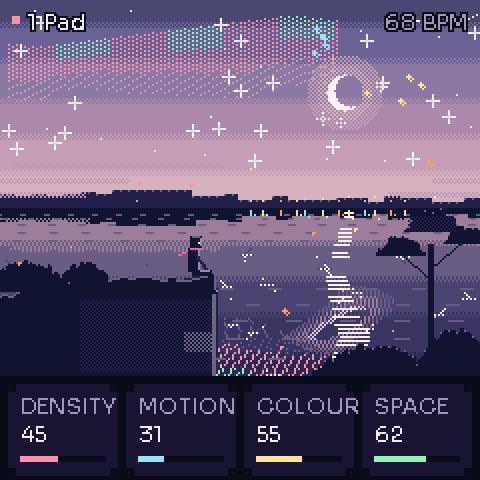
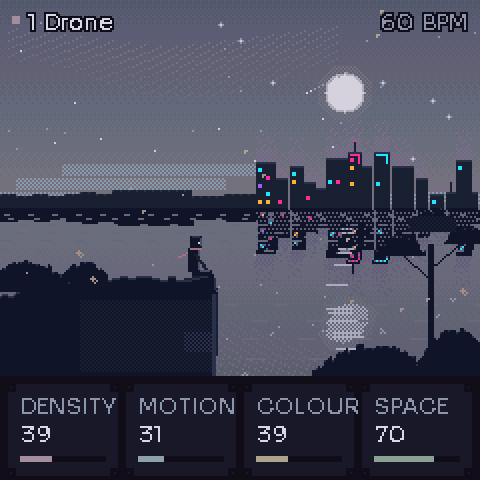
Floaty physics with silent ball collisions; flat muted palette, neon city with glow
Claude-Session: https://claude.ai/code/session_01KPTNcDAdEuj1gFdFWEe3Qh

diff --git a/firmware/src/sk_scene.c b/firmware/src/sk_scene.c
@@ -16,6 +16,7 @@
 #define SC_HZ 104                        /* the horizon */
 #define SC_PX 98                         /* where the figure sits (the hip) */
 #define SC_PY 138                        /* the cliff's top there */
+#define SC_CX0 128                       /* where the city starts */
 #define SC_EDGE 106                      /* the cliff's edge */
 
 static const uint8_t SC_COL[SK_NV] = {C_PINK, C_CYAN, C_YELLOW, C_EMBER, C_GREEN, C_ACC};     /* the voices' colours */
@@ -78,6 +79,7 @@ static void sc_theme(uint32_t biome)
     sc.refl[C_F2] = C_F0;
     sc.refl[C_F3] = C_F0;
     sc.refl[C_MIST] = C_W0;
+    sc.refl[C_G0] = C_G1;
 }
 
 static void sc_update(uint32_t now)
@@ -253,24 +255,70 @@ static void sc_mist(uint32_t now)
 static void sc_shore(void)
 {
     int x;
-    for (x = 0; x < FB_W; x++) {
-        int h = 3 + (int)(sc_hash((uint32_t)(x >> 3) + 0x77u) % 4u) + (x > 118 ? 0 : 3);
+    for (x = 0; x < SC_CX0; x++) {
+        int h = 3 + (int)(sc_hash((uint32_t)(x >> 3) + 0x77u) % 4u) + 3;
         fb_rect(x, SC_HZ - h, 1, h, C_F1);
         if ((x & 3) == 0)
             fb_pset(x, SC_HZ - h, C_F2);
     }
 }
 
-static void sc_lights(uint32_t now)
+/* the city on the far shore: dark towers with neon windows, a few signs, a blinking mast, and a faint glow above it.
+ * Voice 4 brings more windows on; DENSITY adds a few. The only vivid thing on the screen. */
+static void sc_city(uint32_t now)
 {
-    int e = sc_e[3], i;
-    for (i = 0; i < 16; i++) {
-        int x = 124 + i * 7 + (int)(sc_hash((uint32_t)i + 9u) % 4u), on = e > 50 && i * 127 / 16 < sk_s.mac[0] + 30;
-        uint8_t c = (i & 3) == 0 ? C_CYAN : ((i & 1) ? C_YELLOW : C_EMBER);
-        if (on || ((now >> 9) + (uint32_t)i) % 13u == 0u)
-            fb_pset(x, SC_HZ - 4 - (int)(sc_hash((uint32_t)i * 5u) % 3u), on ? c : C_STAR2);
+    int x = SC_CX0, e = sc_e[3], lit = 20 + (e * 30 >> 8) + (sk_s.mac[0] >> 4), b = 0;
+    static int8_t hmap[FB_W];
+    while (x < FB_W - 2) {
+        uint32_t k = sc_hash((uint32_t)b * 7919u + 0x31u);
+        int w = 5 + (int)(k % 7u), h = 7 + (int)((k >> 8) % 19u) + (x > 170 && x < 205 ? 6 : 0), i, wx, wy;
+        if (x + w > FB_W - 1)
+            w = FB_W - 1 - x;
+        for (i = 0; i < w; i++)
+            hmap[x + i] = (int8_t)h;
+        fb_rect(x, SC_HZ - h, w, h, C_F1);
+        fb_hline(x, SC_HZ - h, w, C_F2);
+        for (wy = SC_HZ - h + 3; wy < SC_HZ - 3; wy += 4)
+            for (wx = x + 1; wx < x + w - 2; wx += 4) {
+                uint32_t q = sc_hash((uint32_t)(wx * 131 + wy * 17) + 0x77u);
+                int on = (int)(q % 100u) < lit;
+                if (!on && ((now >> 10) + (q >> 8)) % 97u == 0u)
+                    on = 1;                                   /* a window now and then */
+                if (on)
+                    fb_rect(wx, wy, 2, 2, (uint8_t)(C_N0 + ((q >> 12) & 3u)));
+            }
+        if ((k >> 20) % 3u == 0u && w > 6) {                  /* a neon sign */
+            uint8_t c = (uint8_t)(C_N0 + ((k >> 24) & 3u));
+            int sy = SC_HZ - h + 1;
+            fb_hline(x + 1, sy, w - 2, c);
+            if (h > 14)
+                fb_vline(x + w - 2, sy, 5, c);
+        }
+        if ((k >> 22) % 5u == 0u) {                           /* a mast with a blinking light */
+            fb_vline(x + w / 2, SC_HZ - h - 5, 5, C_F1);
+            if (((now >> 9) + (uint32_t)b) % 4u < 2u)
+                fb_pset(x + w / 2, SC_HZ - h - 6, C_N0);
+        }
+        x += w + (int)((k >> 16) % 2u);
+        b++;
+    }
+    /* the glow: a faint dithered haze over the roofs, thicker over the tall ones, breathing very slowly */
+    {
+        int breathe = 2 + (sc_tri((int)(now >> 6)) >> 6);
+        for (x = SC_CX0; x < FB_W - 1; x++) {
+            int h = hmap[x], g = 6 + (h >> 2) + breathe + (e >> 6), i;
+            for (i = 1; i <= g; i++) {
+                int y = SC_HZ - h - i;
+                if (y < 0)
+                    break;
+                if (((x + y) & 1) == 0 && (i < g / 2 || ((x >> 1) + y) % 3 == 0))
+                    if (fb[y * FB_W + x] >= C_S0 && fb[y * FB_W + x] <= C_S5)
+                        fb_pset(x, y, C_G0);
+            }
+        }
     }
 }
+
 static void sc_arm(int sx, int sy, int tx, int ty, uint8_t c)
 {
     fb_line(sx, sy, tx, ty, c);
@@ -444,7 +492,7 @@ static void sc_reflect(uint32_t now)
             break;
         }
         src = fb + sy * FB_W;
-        dx = ((sc_tri(d * 13 + (int)(now >> 4)) - 128) * (1 + d / 10)) >> 6;
+        dx = ((sc_tri(d * 13 + (int)(now >> 4)) - 128) * (1 + d / 24)) >> 7;
         for (x = 0; x < FB_W; x++) {
             int sx = x + dx;
             uint8_t c;
@@ -452,6 +500,8 @@ static void sc_reflect(uint32_t now)
             c = sc.refl[src[sx] & (FB_PAL - 1)];
             if ((c == C_MOON2 || c == C_STAR2) && ((x + y) & 1))
                 c = C_W2;
+            else if (c >= C_N0 && c <= C_N3 && ((x + y) & 1))        /* the neon lies on the water, half as bright */
+                c = C_G1;
             dst[x] = c;
         }
     }
@@ -481,13 +531,15 @@ static void sc_water(uint32_t now)
     }
     /* the far lights' streaks, ripples from the sub's strikes */
     {
-        int i, e3 = sc_e[3];
+        int e3 = sc_e[3];
         uint32_t age = now - sc.hit[5];
-        int k;
-        for (i = 0; i < 16; i++) {
-            int x = 124 + i * 7 + (int)(sc_hash((uint32_t)i + 9u) % 4u);
-            if (e3 > 50 && i * 127 / 16 < sk_s.mac[0] + 30)
-                fb_vline(x, SC_HZ + 1, 2 + e3 / 60, (i & 3) == 0 ? C_CYAN : ((i & 1) ? C_YELLOW : C_EMBER));
+        int k, x;
+        for (x = SC_CX0; x < FB_W - 1; x += 1) {                     /* the city's light lying on the water */
+            uint32_t q = sc_hash((uint32_t)x * 31u + (now >> 9));
+            int n = 3 + (int)(q % 9u) + (e3 >> 6), j;
+            for (j = 0; j < n; j++)
+                if (((x + j) & 1) == 0)
+                    fb_pset(x, SC_HZ + 2 + j * 2, C_G1);
         }
         for (k = 0; k < 3; k++) {
             int a = (int)age - k * 350, rr, x;
@@ -564,9 +616,9 @@ static void sc_draw(uint32_t now)
     sc_stars(now);
     sc_moon();
     sc_comet(now);
-    sc_shore();
-    sc_lights(now);
     sc_mist(now);
+    sc_shore();
+    sc_city(now);
     sc_reflect(now);
     sc_water(now);
     sc_foreground();

diff --git a/firmware/src/sk_phys.c b/firmware/src/sk_phys.c
@@ -4,8 +4,8 @@
  *
  * The side it touches is the scale degree (so a hexagon is a six-note phrase), the ball is a voice (ball 1 plays voice 1
  * in its register and with its sound), the speed of the hit is the velocity. The shape's SPIN carries the balls round
- * and throws them; GRAVITY pulls them down; BOUNCE is how much of a hit is kept (above 100 % the walls add energy, so
- * the balls never settle). All integer, a fixed step of 1/60 s whatever the frame rate; the walls are the exact
+ * and throws them; GRAVITY pulls them down gently (they drift, they do not fall); BOUNCE is how much of a hit is kept (above 100 % the walls add energy, so
+ * the balls never settle). Balls bounce off each other without a sound. All integer, a fixed step of 1/60 s whatever the frame rate; the walls are the exact
  * sides of the polygon, moving with it. Included by sk_ui.c's unit; drawn on the scene's area. */
 
 #define PH_MAXB 6
@@ -71,7 +71,7 @@ static void ph_init(void)
 static void ph_step(void)
 {
     static uint8_t tr;
-    int g = 14 + ph.grav * 62 / 127;                       /* Q8 pixels per step^2 (0.05 .. 0.3) */
+    int g = 2 + ph.grav * 12 / 127;                        /* Q8 pixels per step^2 (0.008 .. 0.055): the balls drift down */
     int apo = ((PH_R << 8) >> 2) * SK_SIN[256 - 512 / ph.sides] >> 13;
     int w = ph.spin * 75 / 256;                             /* radians a step, Q8 (the angle moves spin * 12 / 65536 turns) */
     int e = 64 + ph.bounce * 72 / 127;                      /* Q7 .. 0.5 .. 1.1 */
@@ -106,13 +106,13 @@ static void ph_step(void)
                     b->vx -= (imp * c) >> 15;
                     b->vy -= (imp * sn) >> 15;
                     b->vx -= b->vx >> 6;                    /* a little grip */
-                    if (vn > 160 && !b->cool && ph.on) {
-                        uint32_t vel = 30u + (uint32_t)(vn > 1400 ? 1400 : vn) * 90u / 1400u;
+                    if (vn > 70 && !b->cool && ph.on) {
+                        uint32_t vel = 30u + (uint32_t)(vn > 900 ? 900 : vn) * 90u / 900u;
                         int deg = (int)s + (int)k * 2 - ph.sides / 2;
                         sk_play(k, sk_note_of(k, deg), vel);
                         b->cool = 8;
                     }
-                    if (vn > 160) {
+                    if (vn > 70) {
                         b->flash = 255;
                         b->side = (int8_t)s;
                         ph.edge[s] = 255;
@@ -132,6 +132,36 @@ static void ph_step(void)
             }
             b->tx[0] = (int16_t)(PH_CX + (b->x >> 8));
             b->ty[0] = (int16_t)(PH_CY + (b->y >> 8));
+        }
+    }
+    /* balls meet balls: an elastic bounce between equal masses, and no sound (only the walls play) */
+    for (k = 0; k + 1 < ph.nb; k++) {
+        uint32_t m;
+        for (m = k + 1; m < ph.nb; m++) {
+            ph_ball_t *a = &ph.b[k], *c = &ph.b[m];
+            int dx = (a->x - c->x) >> 4, dy = (a->y - c->y) >> 4;          /* Q4 pixels */
+            int d2 = dx * dx + dy * dy, lim = (2 * PH_BR) << 4;
+            if (d2 < lim * lim) {
+                int dist = d2 ? sc_isqrt(d2) : 1, nx, ny, vn, ov;
+                if (dist < 1)
+                    dist = 1;
+                nx = (dx << 11) / dist;                                    /* Q11 unit normal, from c to a */
+                ny = (dy << 11) / dist;
+                if (!d2)
+                    nx = 1 << 11, ny = 0;
+                ov = ((lim - dist) << 4) >> 1;                             /* half the overlap each, Q8 */
+                a->x += (nx * ov) >> 11;
+                a->y += (ny * ov) >> 11;
+                c->x -= (nx * ov) >> 11;
+                c->y -= (ny * ov) >> 11;
+                vn = (((a->vx - c->vx) * nx) + ((a->vy - c->vy) * ny)) >> 11;
+                if (vn < 0) {
+                    a->vx -= (vn * nx) >> 11;
+                    a->vy -= (vn * ny) >> 11;
+                    c->vx += (vn * nx) >> 11;
+                    c->vy += (vn * ny) >> 11;
+                }
+            }
         }
     }
 }

diff --git a/firmware/src/sk_fb.c b/firmware/src/sk_fb.c
@@ -31,42 +31,51 @@ enum {
     C_MOON, C_MOON2, C_STAR, C_STAR2,
     C_EMBER, C_PINK, C_CYAN, C_GREEN, C_YELLOW,                /* the pops of colour */
     C_INK, C_INK2, C_PANEL, C_PANEL2, C_BAR, C_ACC,            /* the interface */
-    C_MIST, C_SCARF
+    C_MIST, C_SCARF,
+    C_N0, C_N1, C_N2, C_N3,                                    /* the city's neon: the only vivid colours */
+    C_G0, C_G1                                                 /* the city's glow in the sky and on the water */
 };
 
 #define FB_NTHEME 3
-/* three muted palettes: slate (a blue-grey night, a pale moon), dusk haze (mauve and a dusty rose horizon), and a green-grey
- * mist. They are close in value so that they blend into each other without a jolt. The pops of colour are pastel. */
+/* three muted palettes after a flat blue-grey night: sky and water within a few steps of each other, near-black slate
+ * land, a pale moon. They are close in value so that they blend into each other without a jolt. The pops of colour are
+ * dusty. Only the city on the far shore is vivid: four neon colours and a faint glow of its own. */
 static const uint32_t SK_THEME[FB_NTHEME][40] = {
-    {   /* slate night */
+    {   /* slate night (the reference) */
         0x0E131C,
-        0x4A586C, 0x546278, 0x5E6C82, 0x697789, 0x748294, 0x8290A0,
-        0x7C8A9C, 0x707E92, 0x657388, 0x5A687D, 0x505E73, 0x465469,
-        0x141D2B, 0x1C2838, 0x2D3B4E, 0x4A5A6E,
-        0xE4EAF2, 0xA9B5C4, 0xD2DAE6, 0x9AA7B8,
-        0xC99C7C, 0xC4A0B0, 0x9CBCC8, 0x9CBCAA, 0xD2C8A0,
-        0xDDE3EC, 0x8C98AA, 0x161E2C, 0x273244, 0x9AA8C0, 0xC4A8B4,
-        0x8795A6, 0xC4808C,
+        0x4F6376, 0x546879, 0x586C7C, 0x5C707F, 0x607482, 0x657886,
+        0x637783, 0x5F7380, 0x5B6F7C, 0x576B78, 0x536774, 0x4F6370,
+        0x10192B, 0x182133, 0x28344A, 0x44526A,
+        0xCDCDDA, 0xA4ACBC, 0xC8D2DE, 0x8C9CAC,
+        0x9C8A7C, 0x9C8C98, 0x86A0AC, 0x88A094, 0xA8A48C,
+        0xD0DCE6, 0x8C98AA, 0x161E2C, 0x273244, 0x9AA8C0, 0x9C7482,
+        0x8499A8, 0xA06E7C,
+        0xFF2E9A, 0x22E6FF, 0x9A5CFF, 0xFFB030,
+        0x6A6A88, 0x5A5C7A,
     },
     {   /* dusk haze */
         0x120F1A,
-        0x4C4C64, 0x5A5870, 0x6A6478, 0x7C7482, 0x8E8490, 0xA09198,
-        0x9A8C98, 0x877B8C, 0x766C80, 0x675F74, 0x5A5368, 0x4E495D,
-        0x1A1826, 0x242234, 0x38364A, 0x5A586E,
-        0xEADFE4, 0xB8AAB4, 0xDCD2DC, 0xA89CAC,
-        0xCCA084, 0xC8A0B2, 0xA0BCC8, 0xA0BCAA, 0xD6C8A0,
-        0xE2DCE8, 0x9A90AA, 0x1A1624, 0x302A40, 0xA8A0C0, 0xC8A4B4,
-        0x9A8C9E, 0xC4808C,
+        0x565A6E, 0x5B5F72, 0x606376, 0x666878, 0x6C6D7C, 0x73727F,
+        0x6F6F7C, 0x6B6B78, 0x666775, 0x626372, 0x5D5E6E, 0x585A6A,
+        0x14172A, 0x1C2032, 0x2C3248, 0x48516A,
+        0xD6D2DC, 0xA8A8BA, 0xCCCCDA, 0x9096AC,
+        0xA08E80, 0xA08E9C, 0x88A0AE, 0x8CA296, 0xA8A68E,
+        0xD6D8E6, 0x8F95AA, 0x181A2C, 0x2A3046, 0x9CA6C0, 0xA07888,
+        0x8A98AA, 0xA47282,
+        0xFF2E9A, 0x22E6FF, 0x9A5CFF, 0xFFB030,
+        0x7A6E88, 0x645E7C,
     },
     {   /* green-grey mist */
         0x0C1418,
-        0x3C4C58, 0x465662, 0x50606C, 0x5C6C77, 0x687882, 0x75858D,
-        0x6F7F87, 0x64747E, 0x596974, 0x4F5E69, 0x455460, 0x3C4A55,
-        0x121A22, 0x1A2430, 0x2A3844, 0x465664,
-        0xDDE8E8, 0xA2B4B8, 0xCCDADC, 0x94A8AC,
-        0xC49C7C, 0xC4A0AC, 0x9CBEC6, 0x9CC0AC, 0xD0CCA0,
-        0xDCE6E8, 0x8A9CA2, 0x121C22, 0x24323A, 0x98B0B8, 0xC4A8AE,
-        0x84969C, 0xC4808C,
+        0x4A5F66, 0x4F646B, 0x54696F, 0x596D74, 0x5E7278, 0x64777D,
+        0x62767C, 0x5E7278, 0x5A6E74, 0x566A70, 0x52666C, 0x4E6268,
+        0x0F1A22, 0x16222C, 0x263642, 0x42525E,
+        0xC8D4D6, 0x9CAEB4, 0xC0D0D2, 0x8AA0A6,
+        0x9A8C7E, 0x9A8E96, 0x86A2AA, 0x88A496, 0xA6A68C,
+        0xCCDADC, 0x8A9CA2, 0x121C22, 0x24323A, 0x96ACB6, 0x9C7882,
+        0x84989E, 0xA07480,
+        0xFF2E9A, 0x22E6FF, 0x9A5CFF, 0xFFB030,
+        0x64708A, 0x56627A,
     },
 };
 
